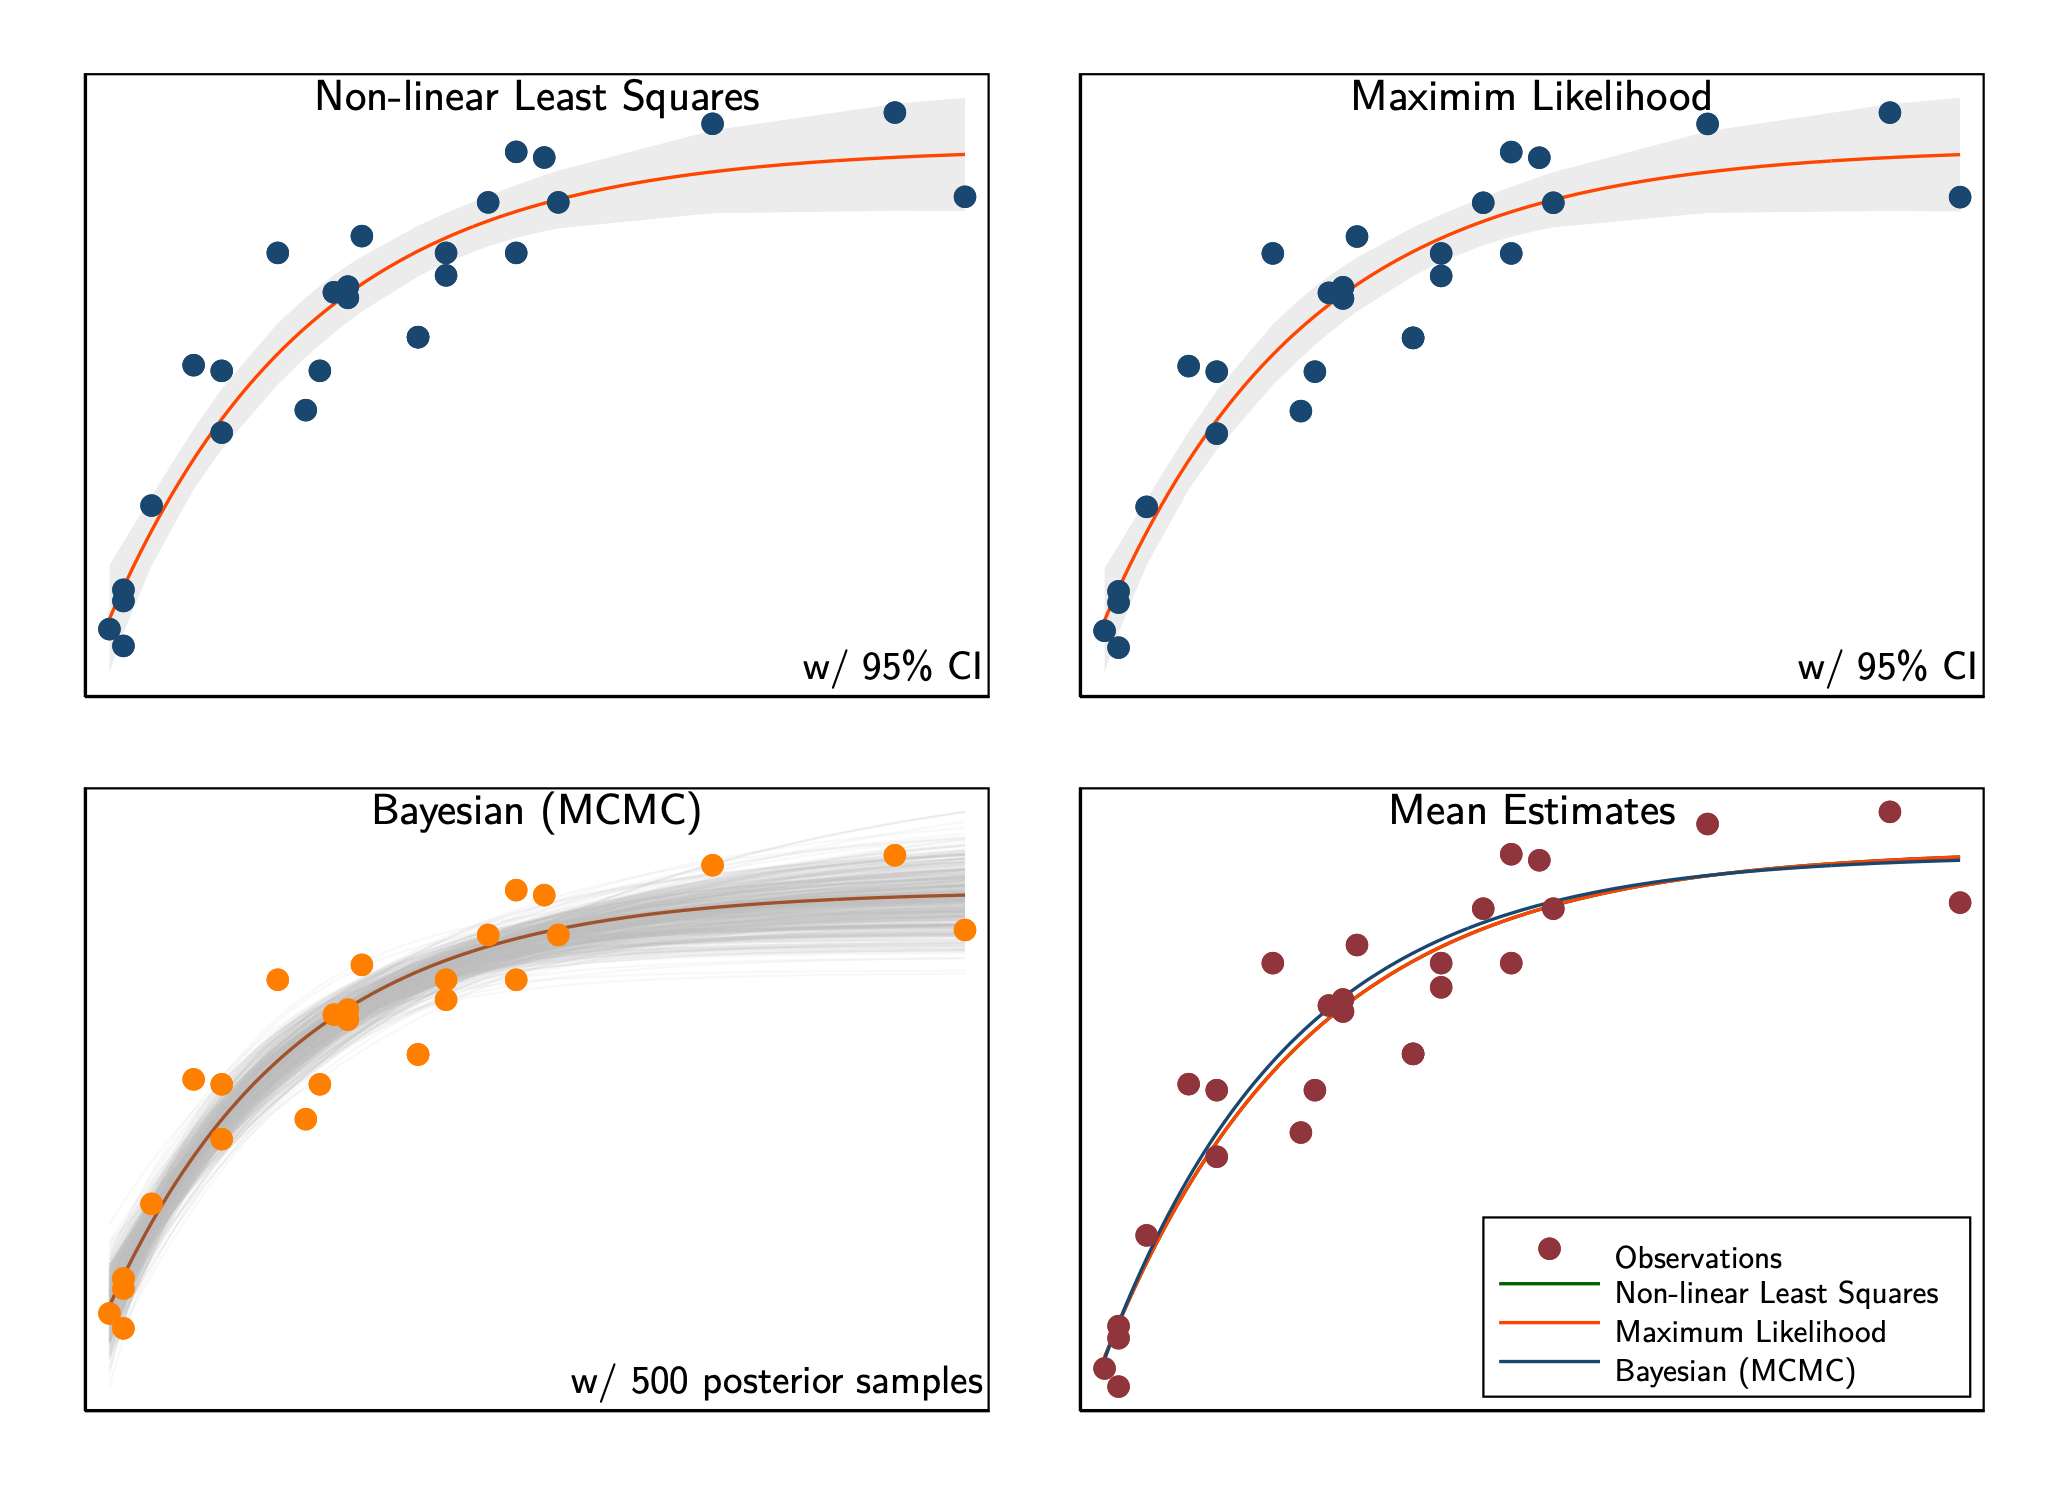
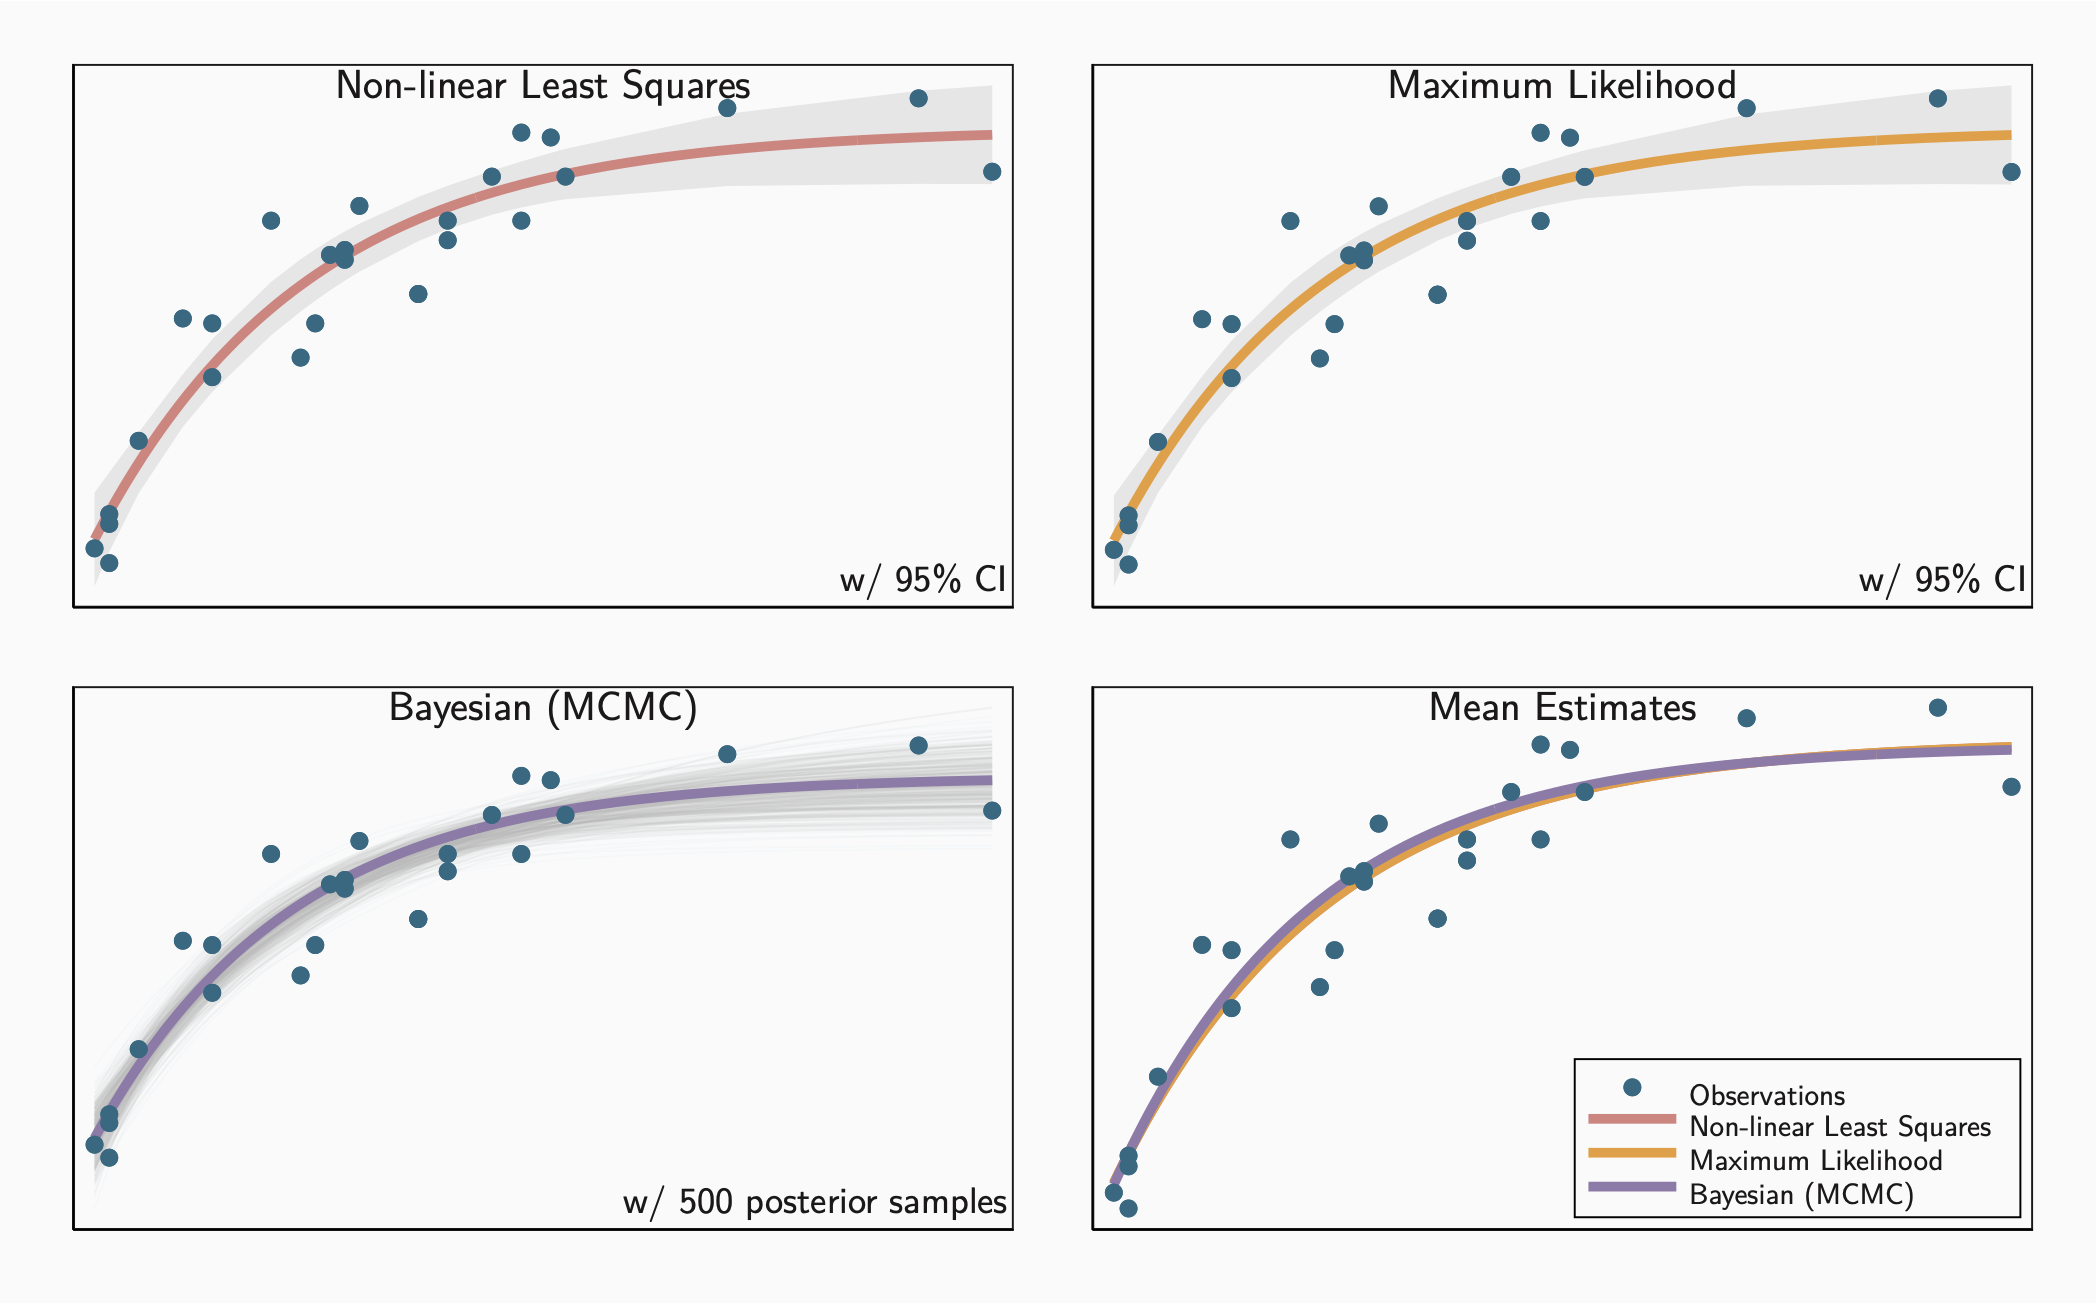
better themes for plots

diff --git a/content/blog/statamodels/statamodels.md b/content/blog/statamodels/statamodels.md
@@ -38,7 +38,7 @@ data {
         real beta;
         real<lower=.5, upper= 1> lamda;
         real<lower=0> sigma;
-    } 
+    }
     transformed parameters {
         array[N] real m;
         for (i in 1:N)
@@ -50,7 +50,7 @@ data {
         beta  ~ normal(0.0, 1000);
         lamda ~ uniform(0.5, 1);
         sigma ~ inv_gamma(0.01, 0.01);
-    
+
         // likelihood
         y ~ normal(m, sigma);
     }
@@ -83,20 +83,20 @@ quietly {
          8.5  2.26
          9    2.4
          9.5  2.39
-         9.5  2.41 
+         9.5  2.41
         10    2.5
-        12    2.32 
-        12    2.32  
+        12    2.32
+        12    2.32
         13    2.43
-        13    2.47 
+        13    2.47
         14.5  2.56
-        15.5  2.65   
+        15.5  2.65
         15.5  2.47
         16.5  2.64
         17    2.56
         22.5  2.7
         29    2.72
-        31.5  2.57     
+        31.5  2.57
     end
 }
 ```
@@ -333,34 +333,40 @@ Thankfully, all of the different modeling approaches yield similar results, as t
 | `ml` program         | 2.65              | 0.96              | 0.87              |
 
 ```stata
-set scheme s1rcolor //light: s1color, dark: s1rcolor
-graph set window fontface "Latin Modern Sans"
-
-// CI color: light: gs10%25, dark: gs10%50
-// Posterior: light: gs12%10, dark: s12%05
+gr_setscheme
+local color1 `.__SCHEME.color.p1'
+local color2 `.__SCHEME.color.p2'
+local color3 `.__SCHEME.color.p3'
+local color4 `.__SCHEME.color.p4'
+local color5 `.__SCHEME.color.p5'
+local color6 `.__SCHEME.color.p6'
+local ciarea `.__SCHEME.color.ci_area'
+local ciline `.__SCHEME.color.ci_line'
 
 // One plot for each method separately to highlight that method's unique
 // features, and then a combined plot to allow comparison of the results.
 
 // Non-linear Least Squares - include confidence interval
 twoway ///
-    (rarea low_nl high_nl x, fcolor(gs10%25) lwidth(none)) ///
-    (function y = (`alpha_nl' - `beta_nl' * `lamda_nl' ^ x),  range(x)) ///
-    (scatter y x), ///
+    (rarea low_nl high_nl x, fcolor("`ciarea'") lwidth(none)) ///
+    (function y = (`alpha_nl' - `beta_nl' * `lamda_nl' ^ x),  ///
+        range(x) lcolor("`color3'") lwidth(1)) ///
+    (scatter y x, mcolor("`color1'")), ///
     legend(off) ///
-    title("Non-linear Least Squares", size(8pt) position(12) ring(0)) ///
-    subtitle("w/ 95% CI", size(6pt) position(5) ring(0)) ///
+    title("Non-linear Least Squares", size(11pt) position(12) ring(0)) ///
+    subtitle("w/ 95% CI", size(10pt) position(5) ring(0)) ///
     xtitle("") xlabel(none) ytitle("") ylabel(none) ///
     name(nl, replace) nodraw
 
 // Maximum Likelihood - also with confidence interval
 twoway ///
-    (rarea low_ml high_ml x, fcolor(gs10%25) lwidth(none)) ///
-    (function y = (`alpha_ml' - `beta_ml' * `lamda_ml' ^ x),  range(x)) ///
-    (scatter y x), ///
+    (rarea low_ml high_ml x, fcolor("`ciarea'") lwidth(none)) ///
+    (function y = (`alpha_ml' - `beta_ml' * `lamda_ml' ^ x),  ///
+        range(x) lcolor("`color4'") lwidth(1)) ///
+    (scatter y x, mcolor("`color1'")), ///
     legend(off) ///
-    title("Maximim Likelihood", size(8pt) position(12) ring(0)) ///
-    subtitle("w/ 95% CI", size(6pt) position(5) ring(0)) ///
+    title("Maximum Likelihood", size(11pt) position(12) ring(0)) ///
+    subtitle("w/ 95% CI", size(10pt) position(5) ring(0)) ///
     xtitle("") xlabel(none) ytitle("") ylabel(none) ///
     name(ml, replace) nodraw
 
@@ -371,33 +377,37 @@ forvalues sample = 1/500 {
     local b = _frval(`posterior', beta,  `i')
     local l = _frval(`posterior', lamda, `i')
     local graph = "`graph' (function y = (`a' - `b' * `l' ^ x),"
-    local graph = "`graph' range(x) lwidth(thin) lcolor(gs12%10))"
+    local graph = "`graph' range(x) lwidth(thin) lcolor(`ciline'%05))"
 }
 
 twoway ///
     `graph' ///
-    (function y = (`alpha_bs' - `beta_bs' * `lamda_bs' ^ x),  range(x)) ///
-    (scatter y x), ///
+    (function y = (`alpha_bs' - `beta_bs' * `lamda_bs' ^ x),  ///
+        range(x) lcolor("`color5'") lwidth(1)) ///
+    (scatter y x, mcolor("`color1'")), ///
     legend(off) ///
-    title("Bayesian (MCMC)", size(8pt) position(12) ring(0)) ///
-    subtitle("w/ 500 posterior samples", size(6pt) position(5) ring(0)) ///
+    title("Bayesian (MCMC)", size(11pt) position(12) ring(0)) ///
+    subtitle("w/ 500 posterior samples", size(10pt) position(5) ring(0)) ///
     xtitle("") xlabel(none) ytitle("") ylabel(none) ///
     name(bayes, replace) nodraw
 
 // Summarized results on single plot - using mean values for parameters
 twoway ///
-    (function y = (`alpha_nl' - `beta_nl' * `lamda_nl' ^ x),  range(x)) ///
-    (function y = (`alpha_ml' - `beta_ml' * `lamda_ml' ^ x),  range(x)) ///
-    (function y = (`alpha_bs' - `beta_bs' * `lamda_bs' ^ x),  range(x)) ///
-    (scatter y x), ///
-    subtitle("Mean Estimates", size(8pt) position(12) ring(0)) ///
+    (function y = (`alpha_nl' - `beta_nl' * `lamda_nl' ^ x),  ///
+        range(x) lcolor("`color3'") lwidth(1)) ///
+    (function y = (`alpha_ml' - `beta_ml' * `lamda_ml' ^ x),  ///
+        range(x) lcolor("`color4'") lwidth(1)) ///
+    (function y = (`alpha_bs' - `beta_bs' * `lamda_bs' ^ x),  ///
+        range(x) lcolor("`color5'") lwidth(1)) ///
+    (scatter y x, mcolor("`color1'")), ///
+    subtitle("Mean Estimates", size(11pt) position(12) ring(0)) ///
     legend(order( ///
         4 "Observations" ///
         1 "Non-linear Least Squares" ///
         2 "Maximum Likelihood" ///
         3 "Bayesian (MCMC)" ///
     ) ///
-    rowgap(0) keygap(1) symxsize(9) size(6pt) region(margin(small)) ///
+    rowgap(0) keygap(1) symxsize(9) size(8pt) region(margin(small)) ///
     cols(1) position(5) ring(0)) ///
     xtitle("") xlabel(none) ytitle("") ylabel(none) ///
     name(all, replace) nodraw

diff --git a/content/blog/darkmode/darkmode.md b/content/blog/darkmode/darkmode.md
@@ -2,6 +2,7 @@
 title: Dark Mode Support
 description: How dark mode works on this sige
 date: 2025-01-15
+draft: true
 tags: [site, python]
 darkmode: true
 ---
@@ -17,53 +18,15 @@ There’s nothing special about most of the implementation, so I won’t bore yo
 
 </figure>
 
-Charts and plots provide more control and flexibility, so I can create optimized light and dark mode versions. Here’s a light mode example.
-
-```python
-import seaborn as sns
-import matplotlib.pyplot as plt
-
-df = sns.load_dataset("anscombe")
-sns.set(style="ticks", context="talk")
-sns.lmplot(
-    x="x",
-    y="y",
-    col="dataset",
-    hue="dataset",
-    data=df,
-    col_wrap=2,
-    ci=None,
-    palette="dark",
-    scatter_kws={"s": 50, "alpha": 1},
-)
-```
-
-The dark mode version uses different chart styles.
-
-```python
-plt.style.use("dark_background")
-sns.lmplot(
-    x="x",
-    y="y",
-    col="dataset",
-    hue="dataset",
-    data=df,
-    col_wrap=2,
-    ci=None,
-    palette="pastel",
-    scatter_kws={"s": 50, "alpha": 1},
-)
-```
-
-The web page includes both images, but only one is visible at a time. Switching to and from dark mode changes which image becomes visible.
+Charts and plots provide more control and flexibility, so I can create optimized light and dark mode versions using different chart styles. The web page includes both images, but only one is visible at a time. Switching to and from dark mode changes which image becomes visible.
 
 <figure>
 
-![Charts of Anscombe’s Quartet](light.png)
+![Sample chart in light mode](light.png)
 
-![Chart of Anscombe’s Quartet](dark.png)
+![Sample chart in dark mode](dark.png)
 
-<figcaption>Charts of Anscombe’s Quartet.</figcaption>
+<figcaption>Sample chart to illustrate the differences between light and dark mode.</figcaption>
 
 </figure>
 
